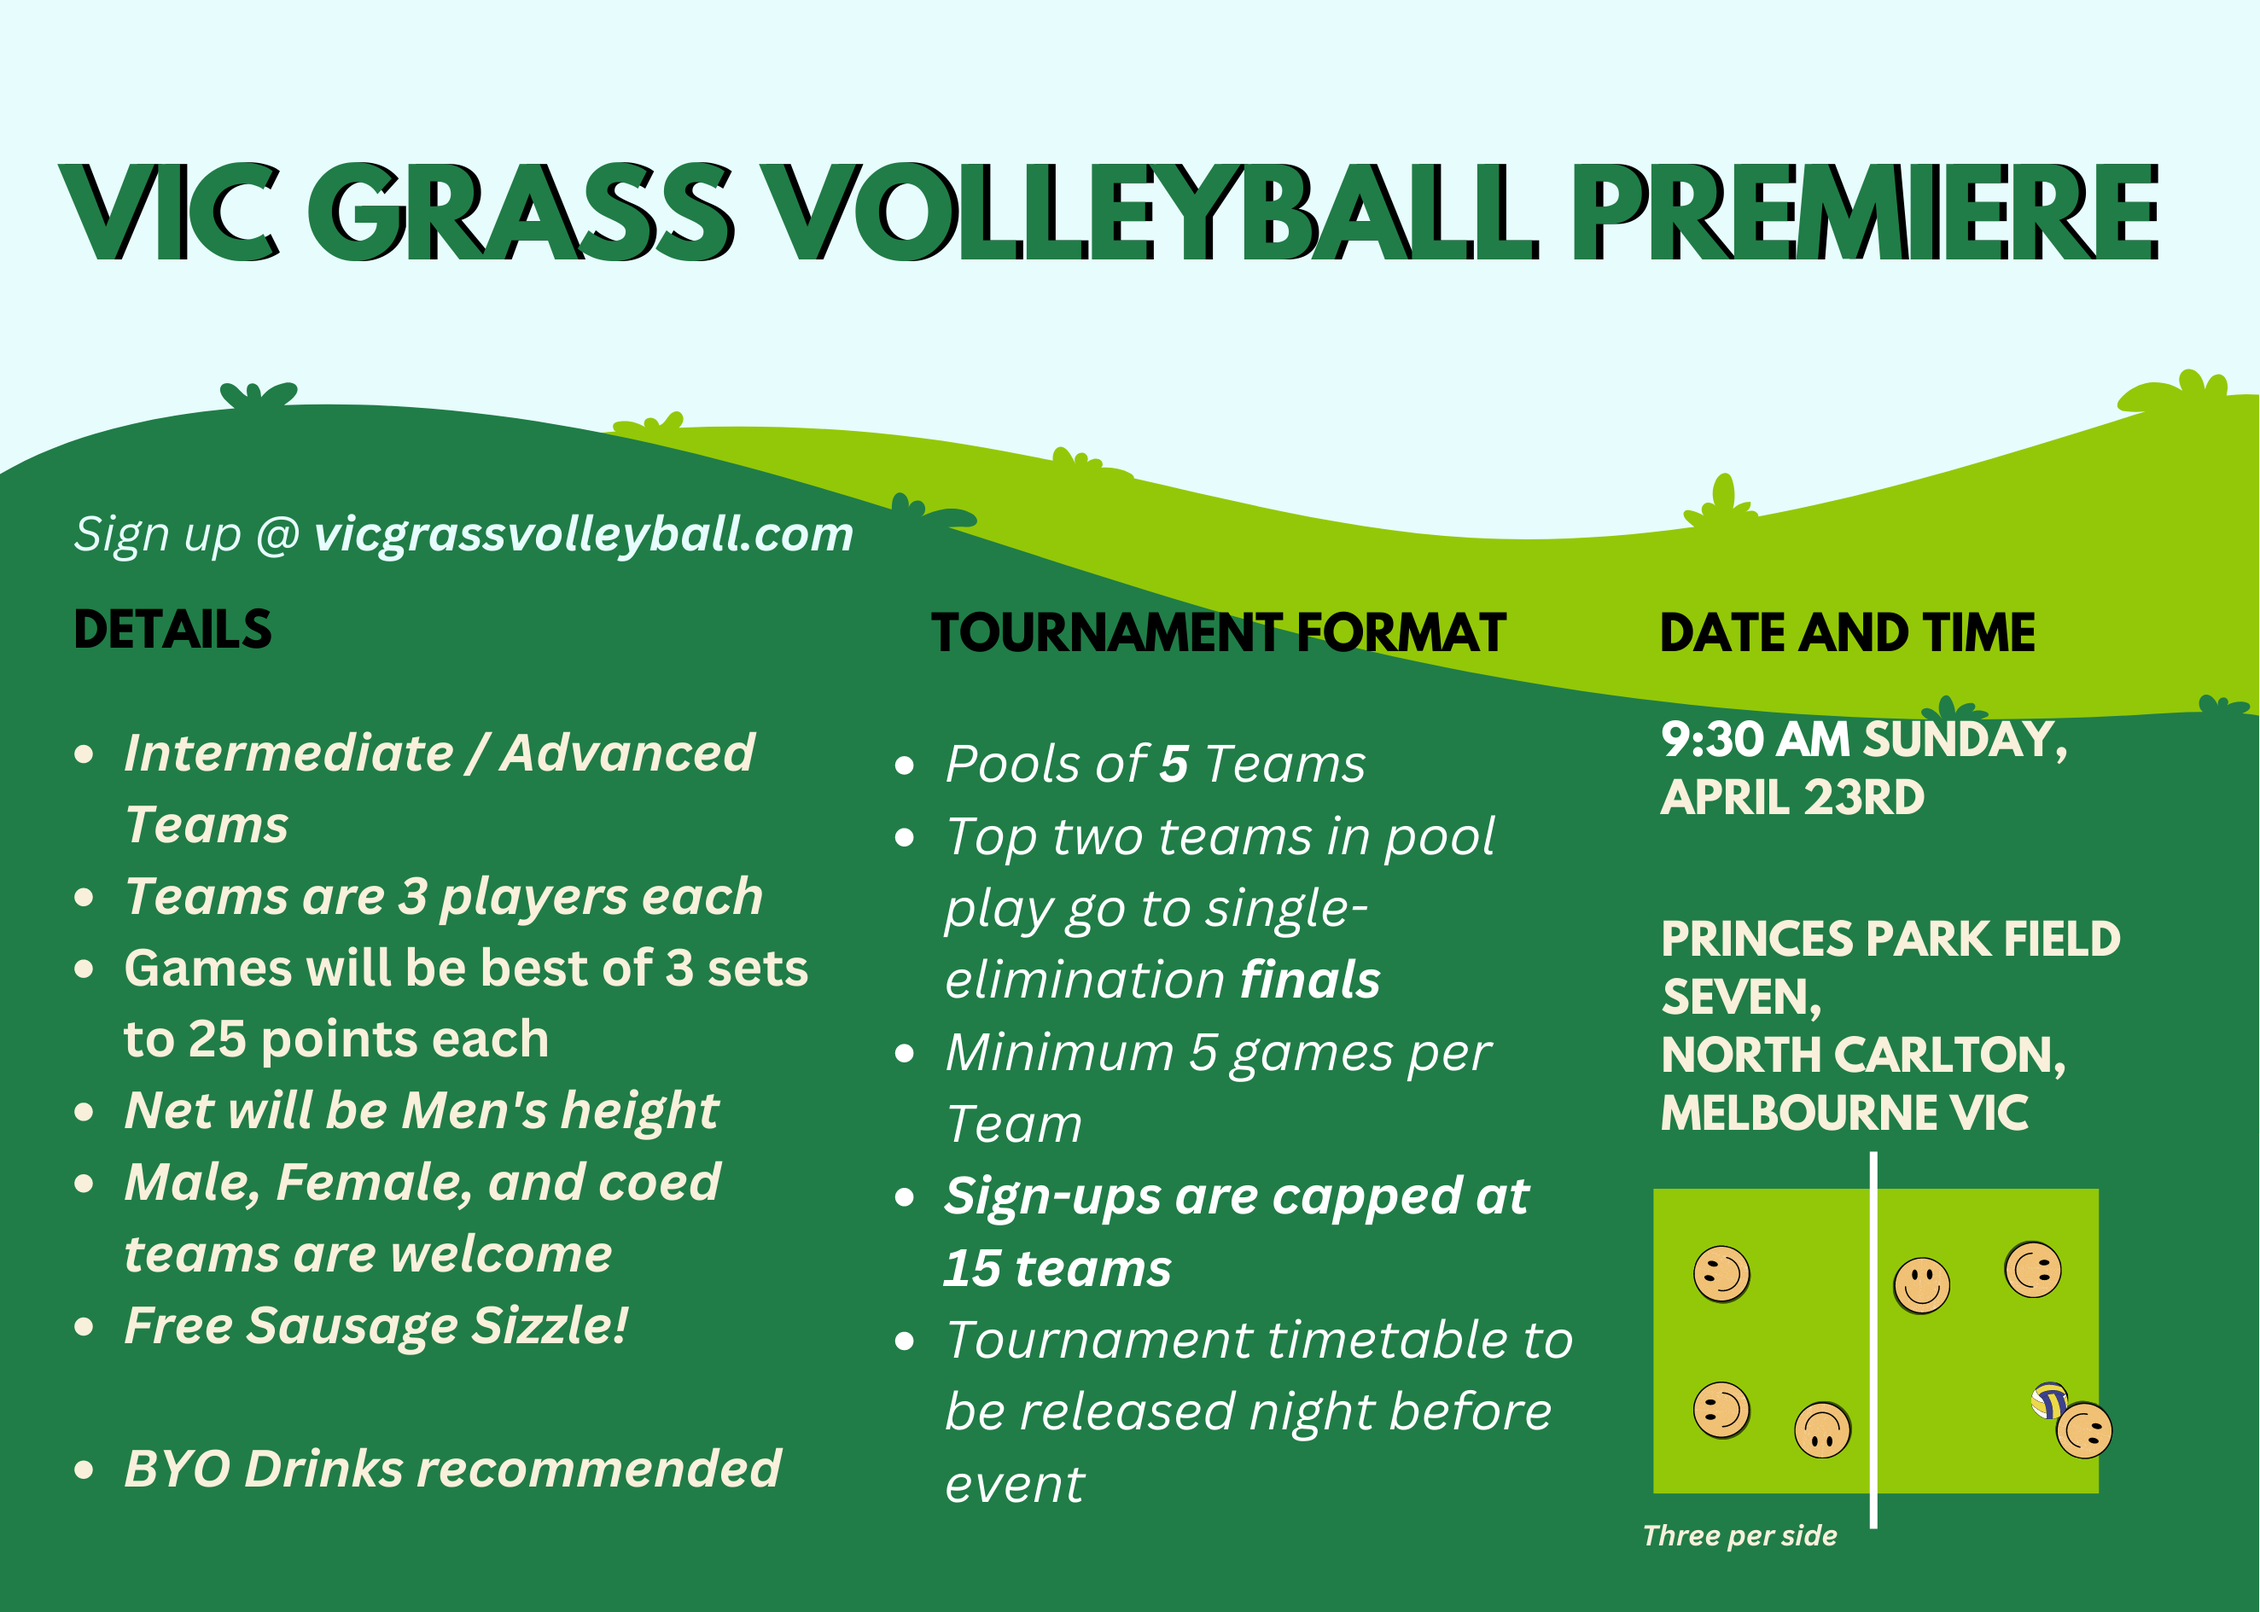
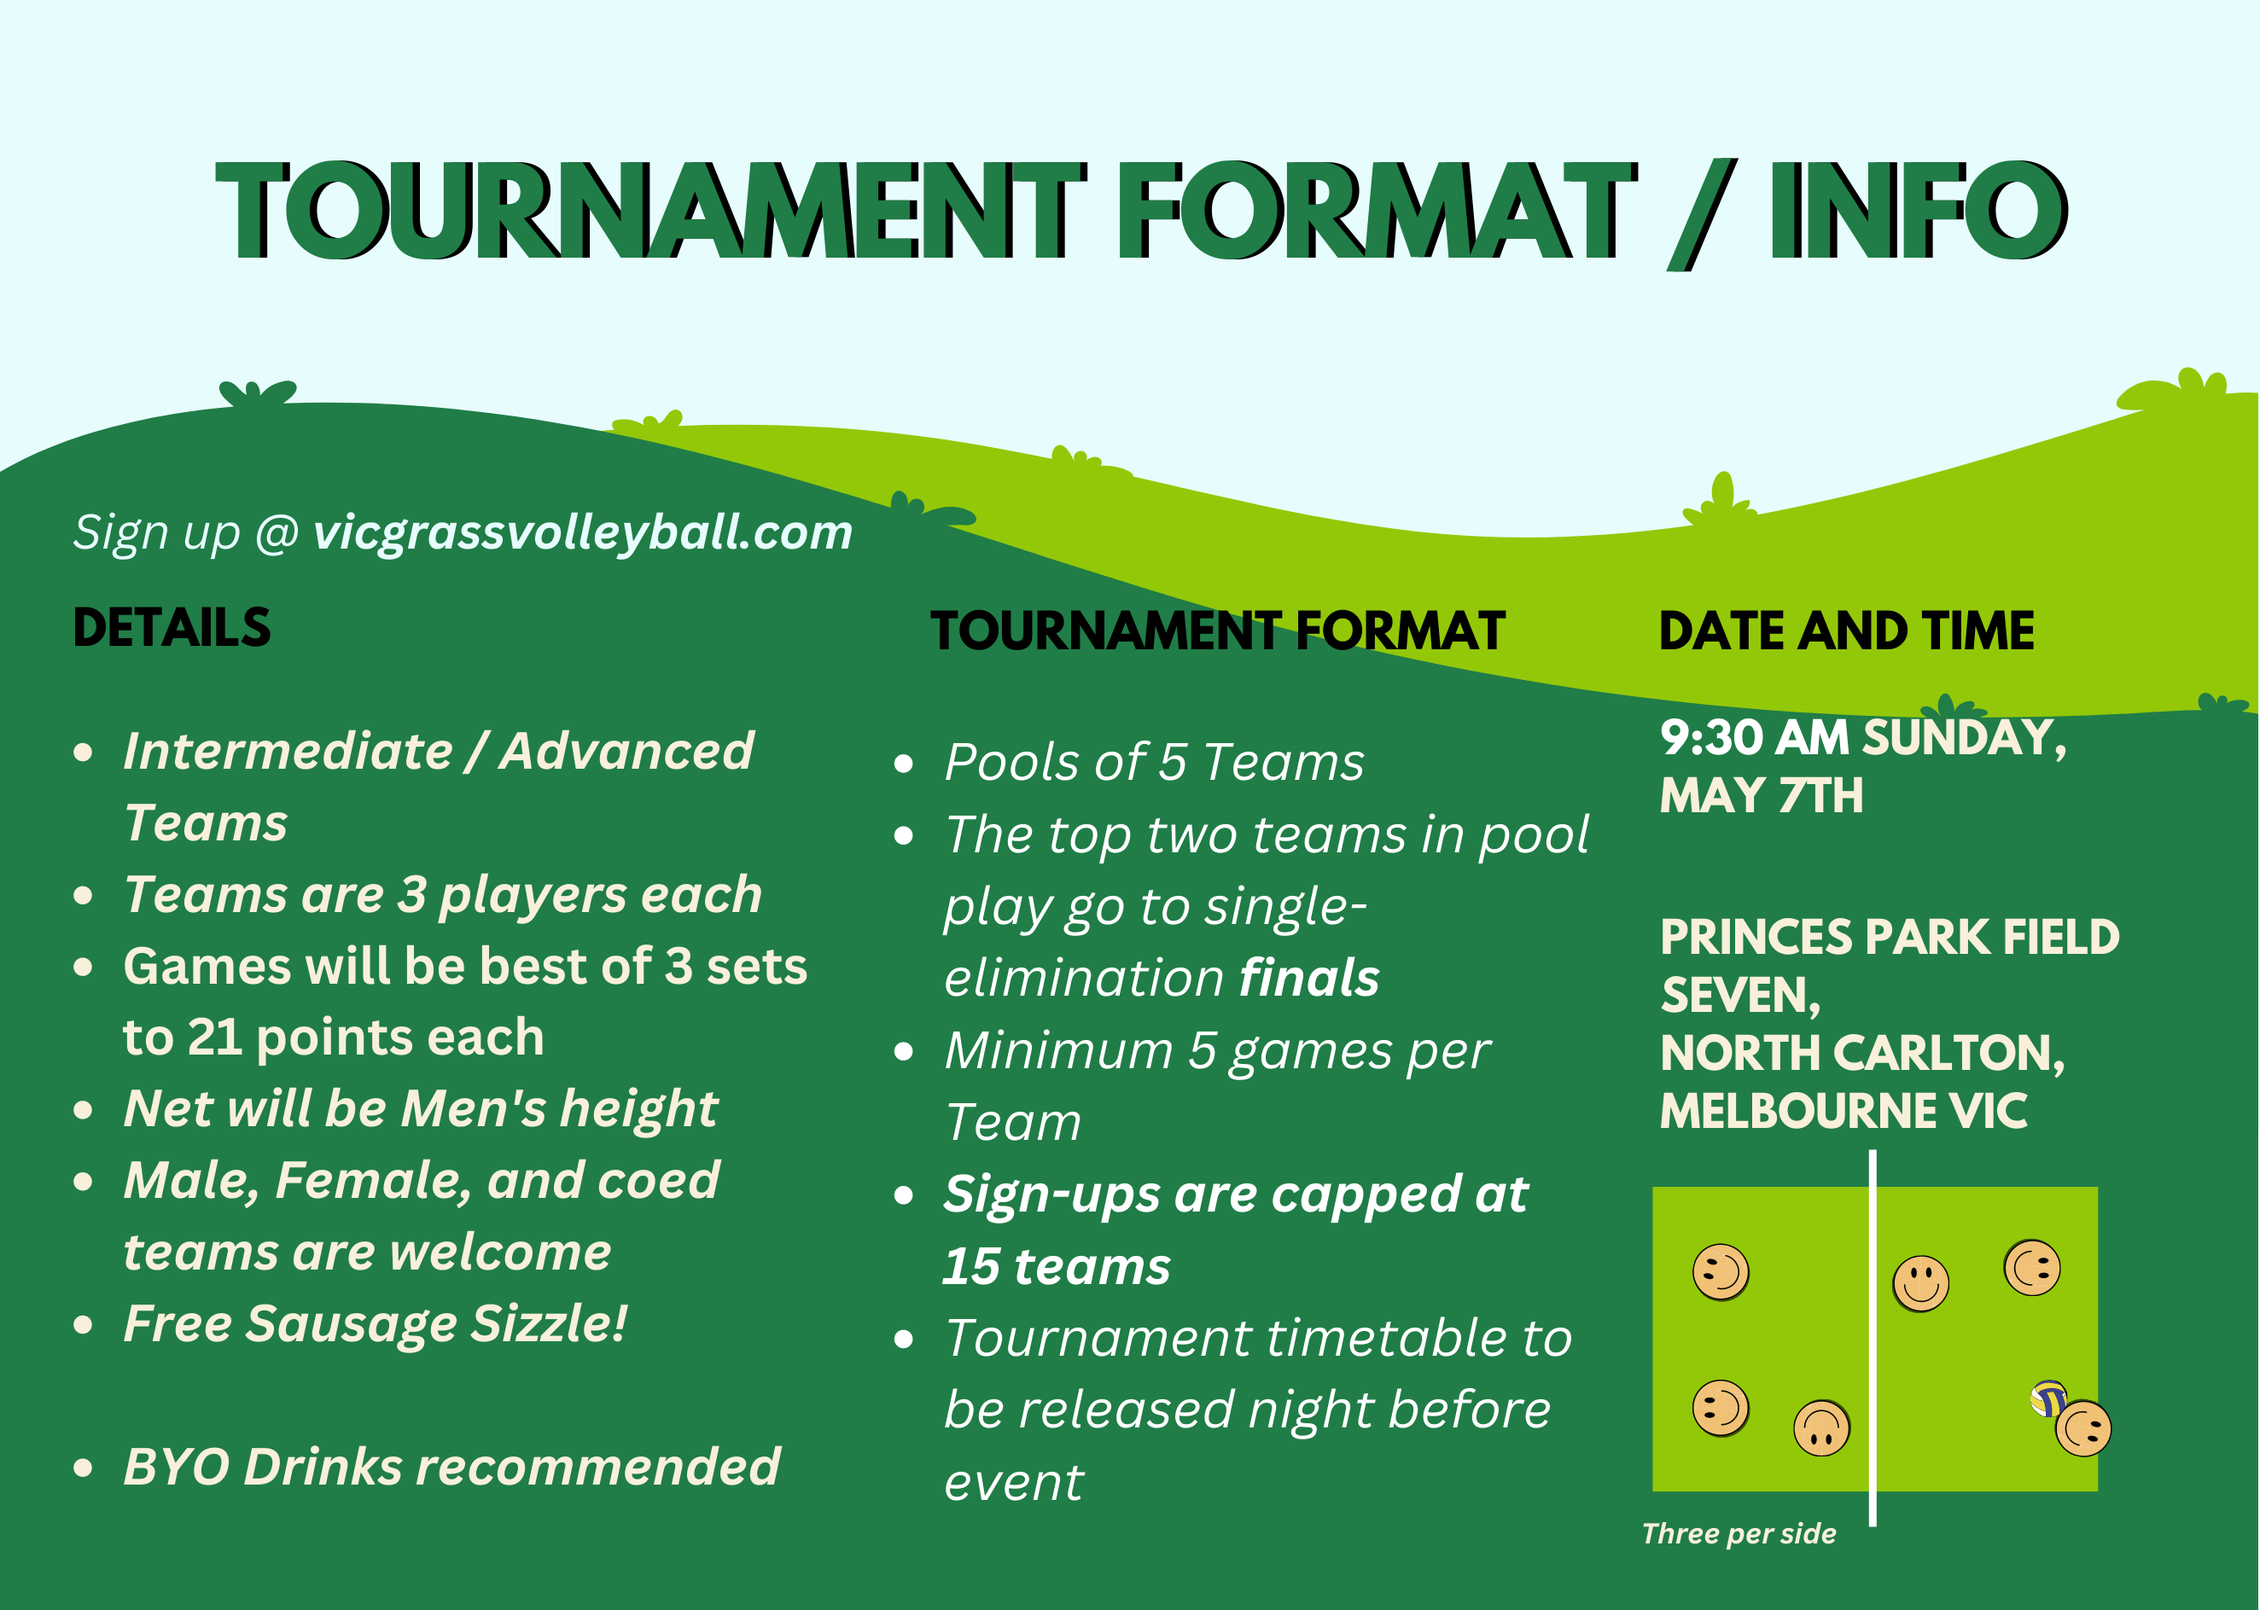
Next Tournament Updates

diff --git a/src/pages/Home.js b/src/pages/Home.js
@@ -4,7 +4,7 @@ import SignUpContainer from "../components/Container";
 import TextButton from "../components/TextButton";
 import "./Home.css";
 import VicGrassHorizontal1Grain from "../images/lowResBanner.png";
-
+import SquareTournamentMain from "../images/SquareTournamentMain.png"
 import InfoBanner from "../images/InfoBanner.png";
 import Map from "../images/Map.png";
 import { Analytics } from "@vercel/analytics/react";
@@ -13,9 +13,9 @@ function Home() {
   return (
     <>
       <div className="App">
-        <SignUpContainer text="SIGN UP FOR APRIL 23rd OPEN TRIPLES" />
+        <SignUpContainer text="SIGN UP FOR MAY 7th GRASS TRIPLES" />
         <div className="sideways-container">
-          <Banner rotation="0" image={VicGrassHorizontal1Grain} />
+          <Banner rotation="0" image={SquareTournamentMain} />
         </div>
         <div className="sideways-container">
           <Banner image={InfoBanner} />

diff --git a/src/components/Container.js b/src/components/Container.js
@@ -1,7 +1,7 @@
 import React from "react";
 import "./Container.css";
 
-const formUrl = "https://docs.google.com/forms/d/e/1FAIpQLSf10ublqiSHLH0X1TYEzM4DjmYzZ1hCrb5jktUrC5hPayB3Rw/viewform"; // Replace with your actual form URL
+const formUrl = "https://docs.google.com/forms/d/e/1FAIpQLSceX01rfyydjtwKSMEcpp_vKb7Mchkm_Am5LJ22giYgCJyCkg/viewform?usp=sf_link"; // Replace with your actual form URL
 
 const handleSignUpClick = () => {
   window.open(formUrl, "_blank");
@@ -10,7 +10,7 @@ const handleSignUpClick = () => {
 function SignUpContainer(props) {
   return (
     <div>
-        <button onClick = {handleSignUpClick} className="textlink" >CLICK TO SIGN UP FOR APRIL 23RD OPEN TRIPLES</button> 
+        <button onClick = {handleSignUpClick} className="textlink" >CLICK TO SIGN UP FOR MAY 7TH GRASS TRIPLES</button> 
     </div>
   );
 }
